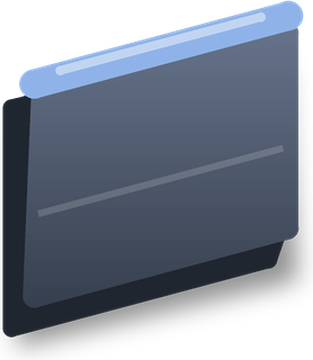
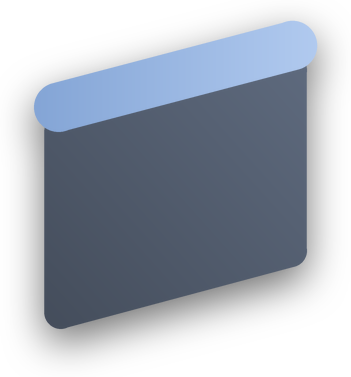
docs(site): use Slate's current mark in the header and hero
The header logo and the hero picture showed the old 3D slab. They're now the mark Slate
draws on the wallpapers, the bar and the dock (SlateMark.qml's shape): straight on beside
the wordmark in the header, tilted and lit from the upper right in the hero. Drawn by
tools/render-site-marks.py.

diff --git a/site/index.html b/site/index.html
@@ -14,7 +14,7 @@
 <body>
 
 <header class="top">
-  <a class="brand" href="#"><img src="assets/logo.png?v=5" alt="Slate" height="34"></a>
+  <a class="brand" href="#"><img src="assets/logo.png?v=6" alt="Slate" height="34"></a>
   <nav>
     <a href="#features">Features</a>
     <a href="#previews">Previews</a>
@@ -27,7 +27,7 @@
 <main>
 
 <section class="hero">
-  <img class="hero-mark" src="assets/mark.png" alt="" width="313" height="360">
+  <img class="hero-mark" src="assets/mark.png?v=2" alt="" width="351" height="377">
   <h1>A calm, complete desktop for&nbsp;Linux.</h1>
   <p class="lead">Aesthetically pleasing yet understated, opinionated yet configurable.
     Slate turns Hyprland into a full desktop: a menu bar, a dock, a launcher, switchers,

diff --git a/site/changelog.html b/site/changelog.html
@@ -11,7 +11,7 @@
 <body>
 
 <header class="top">
-  <a class="brand" href="index.html"><img src="assets/logo.png?v=5" alt="Slate" height="34"></a>
+  <a class="brand" href="index.html"><img src="assets/logo.png?v=6" alt="Slate" height="34"></a>
   <nav>
     <a href="index.html#features">Features</a>
     <a href="index.html#previews">Previews</a>

diff --git a/site/features.html b/site/features.html
@@ -11,7 +11,7 @@
 <body>
 
 <header class="top">
-  <a class="brand" href="index.html"><img src="assets/logo.png?v=5" alt="Slate" height="34"></a>
+  <a class="brand" href="index.html"><img src="assets/logo.png?v=6" alt="Slate" height="34"></a>
   <nav>
     <a href="index.html#features">Features</a>
     <a href="index.html#previews">Previews</a>

diff --git a/tools/render-site-marks.py b/tools/render-site-marks.py
@@ -1,0 +1,149 @@
+#!/usr/bin/env python3
+"""Render the site's two pictures of Slate's mark, from the shape Slate itself draws
+(SlateMark.qml, on its 18 × 18 grid: a slab of slate with the accent along its top edge),
+the same mark that's on the wallpapers, the bar and the dock:
+
+    site/assets/logo.png   the header: the mark seen straight on, beside "slate" in Geist
+    site/assets/mark.png   the hero: the mark tilted up to the right, lit from the upper right,
+                           with a soft shadow under it
+
+    tools/render-site-marks.py [site/assets]
+
+Needs Pillow and numpy."""
+import os, sys
+import numpy as np
+from PIL import Image, ImageDraw, ImageFilter, ImageFont
+
+here = os.path.dirname(os.path.abspath(__file__))
+out_dir = sys.argv[1] if len(sys.argv) > 1 else os.path.join(here, "..", "site", "assets")
+
+BODY = (0x56, 0x61, 0x73)        # SlateMark's body
+ACCENT = (0x8f, 0xb3, 0xe8)      # Slate's default accent (the site's --accent)
+INK = (0xee, 0xf1, 0xf5)         # the wordmark, light on the site's dark header
+
+# SlateMark.qml's shape: the slab's corners (outlined 1.6 wide with round joins, which rounds
+# them) and its top edge (2.4 wide, round ends), straight on and tilted
+SHAPES = {
+    "flat": {"slab": [(3.4, 5.7), (14.6, 5.7), (14.6, 14.1), (3.4, 14.1)], "edge": [(3.3, 4.1), (14.7, 4.1)]},
+    "tilted": {"slab": [(3.4, 7.6), (14.6, 4.6), (14.6, 13.4), (3.4, 16.4)], "edge": [(3.3, 6.4), (14.7, 3.4)]},
+}
+SS = 4                           # drawn this many times the size, then scaled down, for smooth edges
+
+
+def masks(shape, unit, pad):
+    """The slab's and the edge's coverage (0…1), cropped to what's drawn plus `pad` px."""
+    pts = shape["slab"] + shape["edge"]
+    left = min(p[0] for p in pts) - 1.2
+    top = min(p[1] for p in pts) - 1.2
+    right = max(p[0] for p in pts) + 1.2
+    bottom = max(p[1] for p in pts) + 1.2
+    w = round((right - left) * unit) + 2 * pad
+    h = round((bottom - top) * unit) + 2 * pad
+
+    def at(p):
+        return ((pad + (p[0] - left) * unit) * SS, (pad + (p[1] - top) * unit) * SS)
+
+    def stroke(d, points, width):
+        r = width * unit * SS / 2
+        for a, b in zip(points, points[1:]):
+            d.line([at(a), at(b)], fill=255, width=round(2 * r))
+        for q in points:
+            cx, cy = at(q)
+            d.ellipse([cx - r, cy - r, cx + r, cy + r], fill=255)
+
+    slab = Image.new("L", (w * SS, h * SS), 0)
+    d = ImageDraw.Draw(slab)
+    d.polygon([at(q) for q in shape["slab"]], fill=255)
+    stroke(d, shape["slab"] + shape["slab"][:1], 1.6)
+    edge = Image.new("L", (w * SS, h * SS), 0)
+    stroke(ImageDraw.Draw(edge), shape["edge"], 2.4)
+
+    def small(im):
+        return np.asarray(im.resize((w, h), Image.LANCZOS), dtype=np.float32) / 255
+
+    return small(slab), small(edge)
+
+
+def compose(slab, edge, body, accent):
+    """The mark in RGBA: the edge over the slab. `body` and `accent` are colours, or arrays of
+    colours (one per pixel)."""
+    body = np.broadcast_to(np.asarray(body, dtype=np.float32), slab.shape + (3,))
+    accent = np.broadcast_to(np.asarray(accent, dtype=np.float32), slab.shape + (3,))
+    e = edge[..., None]
+    alpha = np.clip(slab + edge * (1 - slab), 0, 1)
+    # colour: the edge over the slab, weighted by their coverage
+    rgb = (accent * e + body * slab[..., None] * (1 - e)) / np.maximum(alpha[..., None], 1e-6)
+    return np.dstack([rgb, alpha * 255])
+
+
+def to_image(a):
+    return Image.fromarray(np.clip(np.round(a), 0, 255).astype(np.uint8), "RGBA")
+
+
+# ---- The header: straight on, beside the wordmark ----------------------------------------
+def logo(H=160):
+    shape = SHAPES["flat"]
+    pts = shape["slab"] + shape["edge"]
+    span = max(p[1] for p in pts) - min(p[1] for p in pts) + 2.4      # what's drawn, top to bottom
+    unit = H / span
+    slab, edge = masks(shape, unit, 0)
+    icon = to_image(compose(slab, edge, BODY, ACCENT))
+    icon = icon.crop(icon.getchannel("A").getbbox())
+    icon = icon.resize((round(icon.width * H / icon.height), H), Image.LANCZOS)
+
+    # "slate" in Geist SemiBold, lower case, a little open tracking (as tools/render-logo.py)
+    font = ImageFont.truetype(os.path.join(here, "..", "shell", "fonts", "Geist-Variable.ttf"), round(H * 0.56))
+    font.set_variation_by_axes([600])
+    word, track = "slate", round(H * 0.012)
+    widths = [font.getlength(c) for c in word]
+    text_w = round(sum(widths) + track * (len(word) - 1))
+    gap = round(H * 0.16)
+    img = Image.new("RGBA", (icon.width + gap + text_w + round(H * 0.04), H), (0, 0, 0, 0))
+    img.alpha_composite(icon, (0, 0))
+    # The word centred on the slab below the edge (its face), as the eye reads the block
+    drawn_top = shape["edge"][0][1] - 1.2                       # the edge's round top
+    drawn_bottom = shape["slab"][2][1] + 0.8                     # the slab's outlined bottom
+    face = (shape["edge"][0][1] + 1.2 - drawn_top) / (drawn_bottom - drawn_top) * H
+    mid = (face + H) / 2
+    x0, y0, x1, y1 = font.getbbox("slate")
+    y = round(mid - (y0 + y1) / 2)
+    d = ImageDraw.Draw(img)
+    x = icon.width + gap
+    for c, w in zip(word, widths):
+        d.text((x, y), c, font=font, fill=INK + (255,))
+        x += w + track
+    return img
+
+
+# ---- The hero: tilted, lit, with a shadow -----------------------------------------------
+def hero(H=396):
+    shape = SHAPES["tilted"]
+    pts = shape["slab"] + shape["edge"]
+    span = max(p[1] for p in pts) - min(p[1] for p in pts) + 2.4
+    pad = round(H * 0.10)
+    unit = (H - 2 * pad) / span
+    slab, edge = masks(shape, unit, pad)
+    h, w = slab.shape
+    yy, xx = np.mgrid[0:h, 0:w].astype(np.float32)
+    # As on the wallpapers: lit from the upper right, 0 at the bottom left to 1 at the top right
+    lit = np.clip(((xx - pad) / (w - 2 * pad) + 1 - (yy - pad) / (h - 2 * pad)) / 2, 0, 1)[..., None]
+    along = np.clip((xx - pad) / (w - 2 * pad), 0, 1)[..., None]
+    body = np.asarray(BODY, dtype=np.float32)
+    body = body * (0.78 + 0.34 * lit)                             # darker low left, brighter up right
+    accent = np.asarray(ACCENT, dtype=np.float32)
+    accent = accent * (0.92 + 0.08 * along) + (255 - accent) * 0.30 * along   # brightening along it
+    mark = compose(slab, edge, body, accent)
+    # The shadow: the whole mark, blurred, a little below
+    both = np.clip(slab + edge, 0, 1)
+    shadow = Image.fromarray((both * 255).astype(np.uint8)).filter(ImageFilter.GaussianBlur(unit * 0.9))
+    shadow = np.roll(np.asarray(shadow, dtype=np.float32) / 255, round(unit * 0.7), axis=0) * 0.55
+    under = np.dstack([np.zeros((h, w, 3), np.float32), shadow * 255])
+    img = to_image(under)
+    img.alpha_composite(to_image(mark))
+    return img.crop(img.getchannel("A").point(lambda a: 255 if a > 2 else 0).getbbox())
+
+
+for name, im in (("logo.png", logo()), ("mark.png", hero())):
+    path = os.path.join(out_dir, name)
+    im.save(path, optimize=True)
+    print(path, im.size)
